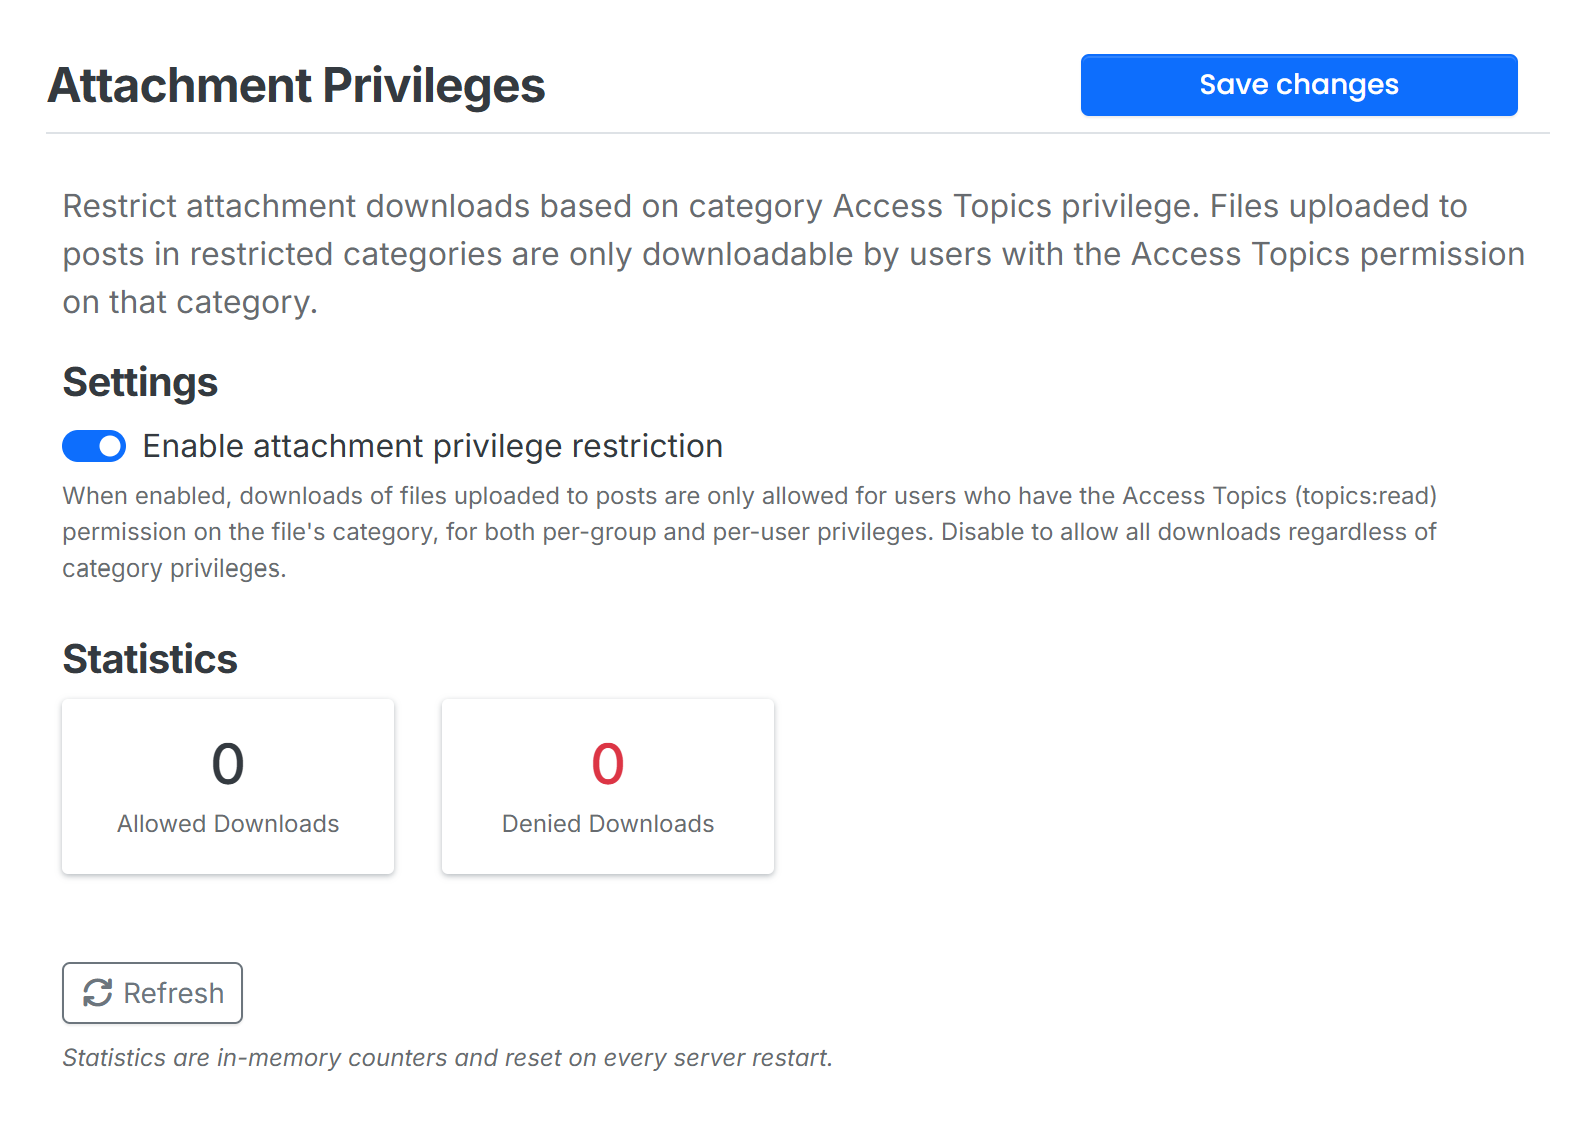
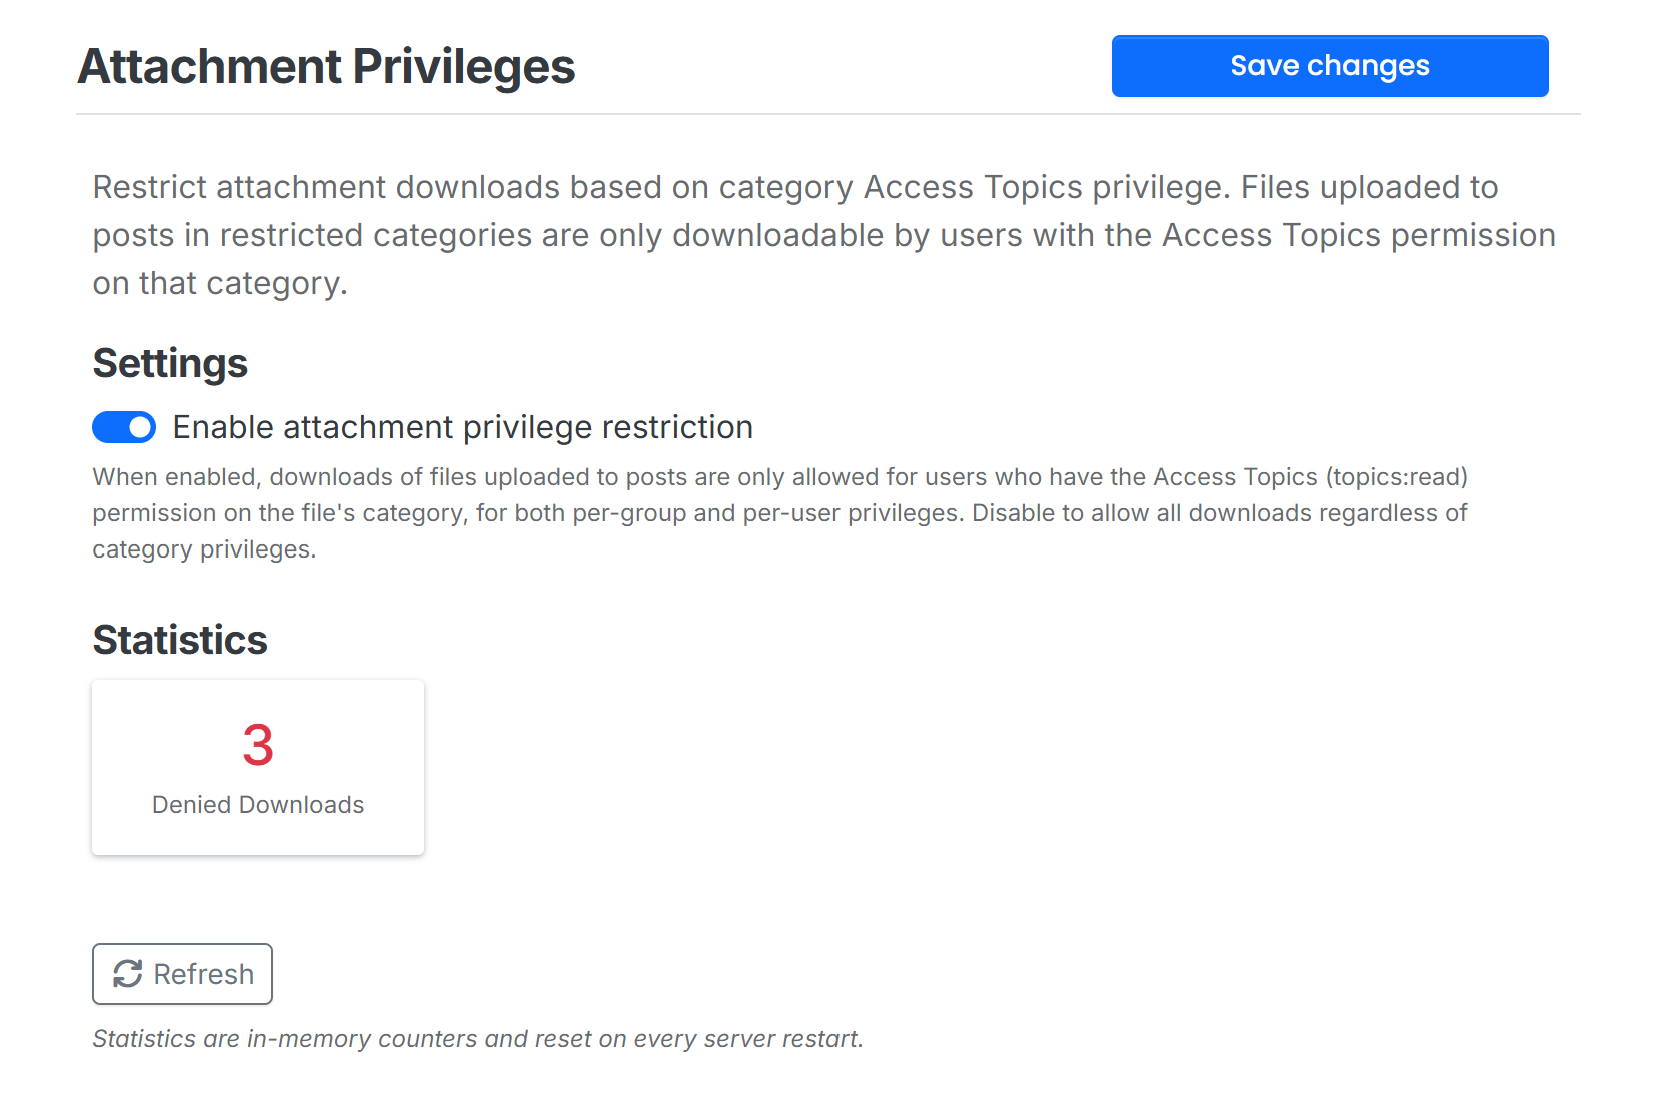
1.0.3 update
Better caching with CDN

- Public attachment cache-control change to Public, max-age=3600, s-maxage=60

- Remove inaccurate "Allowed Download" from ACP after local cache introduced

diff --git a/library.js b/library.js
@@ -16,10 +16,11 @@ const ROUTE_PREFIX = '/assets/uploads/files/';
 
 const DENY = { allowed: false, status: 403 };
 const DENY_SERVER_ERROR = { allowed: false, status: 500 };
-const ALLOW = { allowed: true, status: 0 };
+const ALLOW_PUBLIC = { allowed: true, status: 0, worldReadable: true };
+const ALLOW_RESTRICTED = { allowed: true, status: 0, worldReadable: false };
 
-const ALLOW_CC = 'private, no-cache';
-const DENY_CC = 'private, no-store';
+const PUBLIC_CC = 'public, proxy-revalidate, no-transform, max-age=3600, s-maxage=60';
+const RESTRICTED_CC = 'private, no-cache';
 const VARY_COOKIE = 'Cookie';
 
 const stats = { allow: 0, deny: 0 };
@@ -44,7 +45,7 @@ async function checkAccess(filePath, uid) {
 
 	const pids = usages && usages[0];
 	if (!pids || !pids.length) {
-		return ALLOW;
+		return ALLOW_PUBLIC;
 	}
 
 	let cids;
@@ -57,12 +58,18 @@ async function checkAccess(filePath, uid) {
 	}
 
 	if (!cids.length) {
-		return ALLOW;
+		return ALLOW_PUBLIC;
 	}
 
 	try {
 		const accessible = await privileges.categories.filterCids(PRIVILEGE, cids, uid);
-		return accessible && accessible.length > 0 ? ALLOW : DENY;
+		const guestAccessible = uid === 0
+			? accessible
+			: await privileges.categories.filterCids(PRIVILEGE, cids, 0);
+		if (accessible && accessible.length > 0) {
+			return guestAccessible && guestAccessible.length > 0 ? ALLOW_PUBLIC : ALLOW_RESTRICTED;
+		}
+		return DENY;
 	} catch (e) {
 		winston.error('[attachment-privileges] filterCids failed for cids=' + cids.join(',') + ' uid=' + uid + ': ' + e.message);
 		return DENY_SERVER_ERROR;
@@ -105,8 +112,10 @@ plugin.init = async function (params) {
 
 			if (result.allowed) {
 				stats.allow++;
-				res.setHeader('Cache-Control', ALLOW_CC);
-				res.vary(VARY_COOKIE);
+				res.setHeader('Cache-Control', result.worldReadable ? PUBLIC_CC : RESTRICTED_CC);
+				if (!result.worldReadable) {
+					res.vary(VARY_COOKIE);
+				}
 
 				const _setHeader = res.setHeader.bind(res);
 				res.setHeader = function (name, value) {
@@ -120,13 +129,13 @@ plugin.init = async function (params) {
 			}
 
 			stats.deny++;
-			res.setHeader('Cache-Control', DENY_CC);
+			res.setHeader('Cache-Control', RESTRICTED_CC);
 			res.vary(VARY_COOKIE);
 			return res.status(result.status).json('not-allowed');
 		} catch (e) {
 			winston.error('[attachment-privileges] guard error: ' + e.message);
 			stats.deny++;
-			res.setHeader('Cache-Control', DENY_CC);
+			res.setHeader('Cache-Control', RESTRICTED_CC);
 			res.vary(VARY_COOKIE);
 			return res.status(500).json('server-error');
 		}
